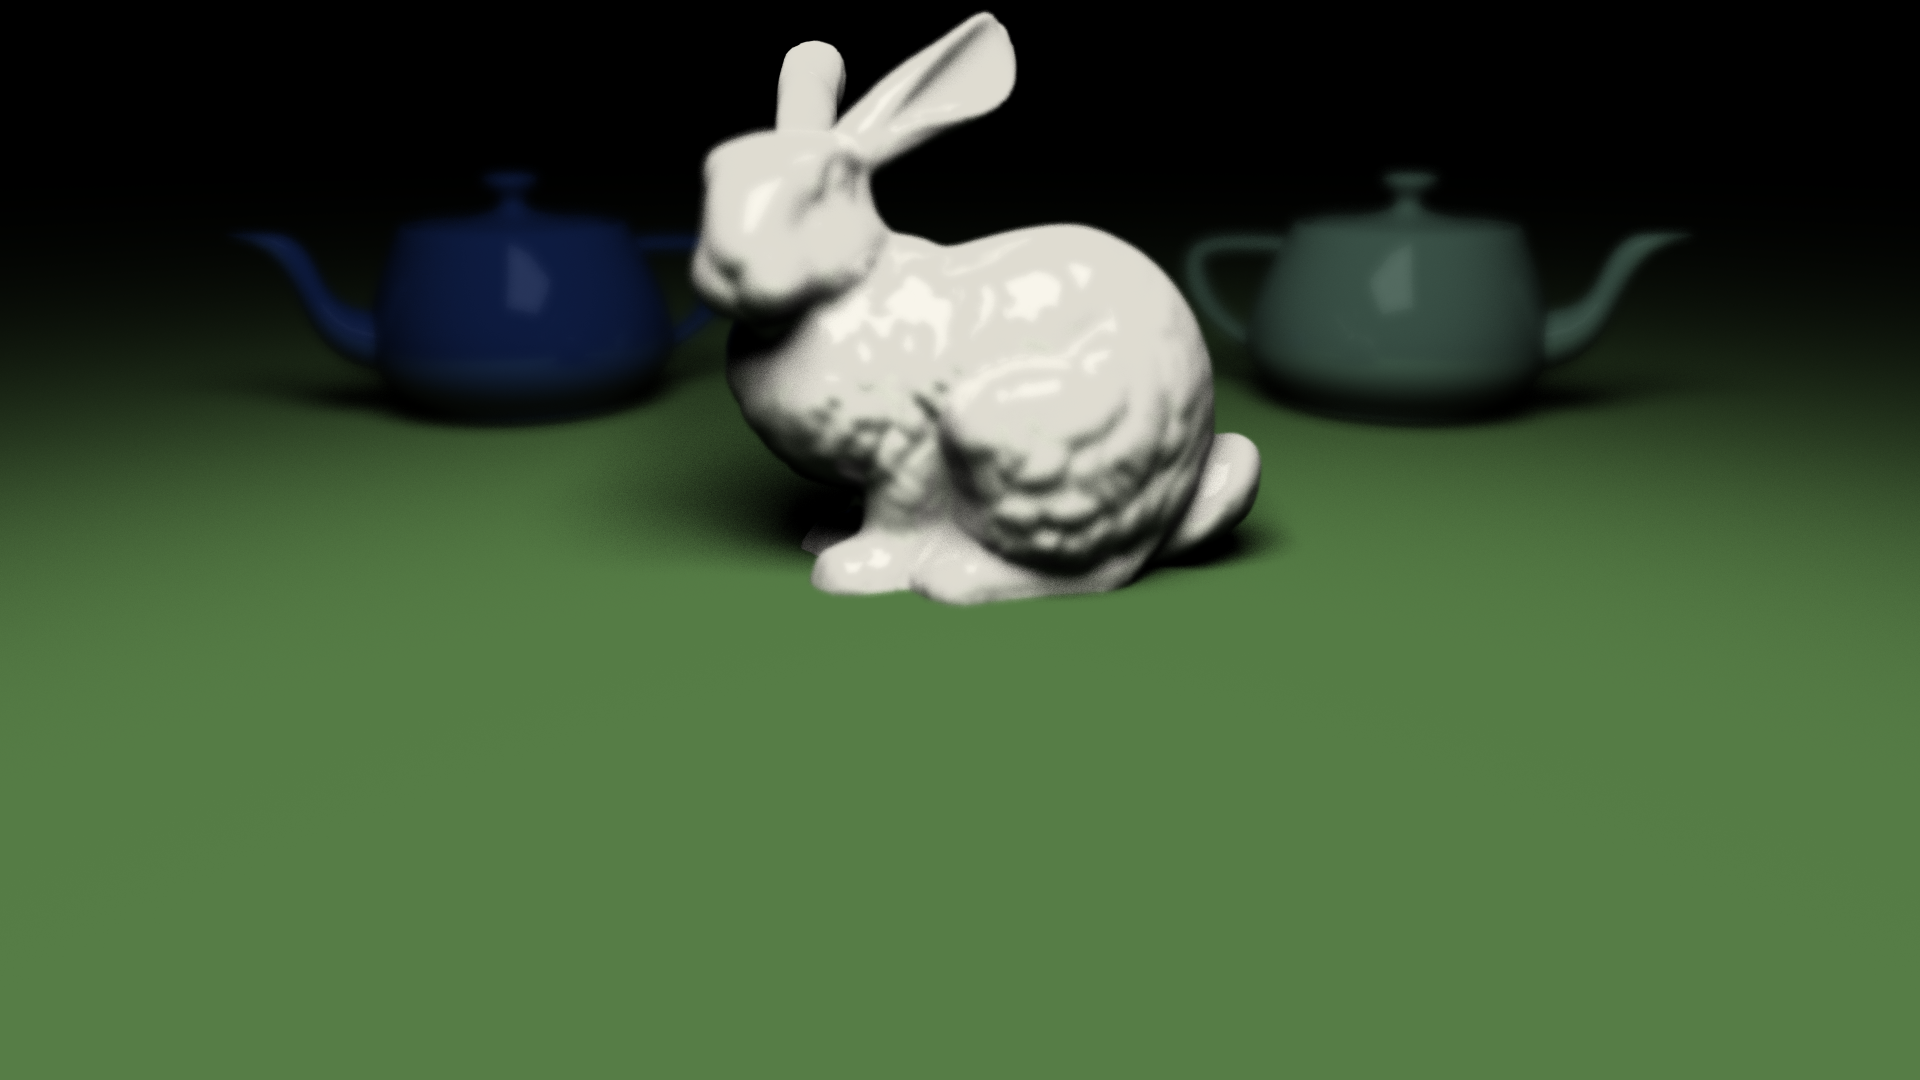
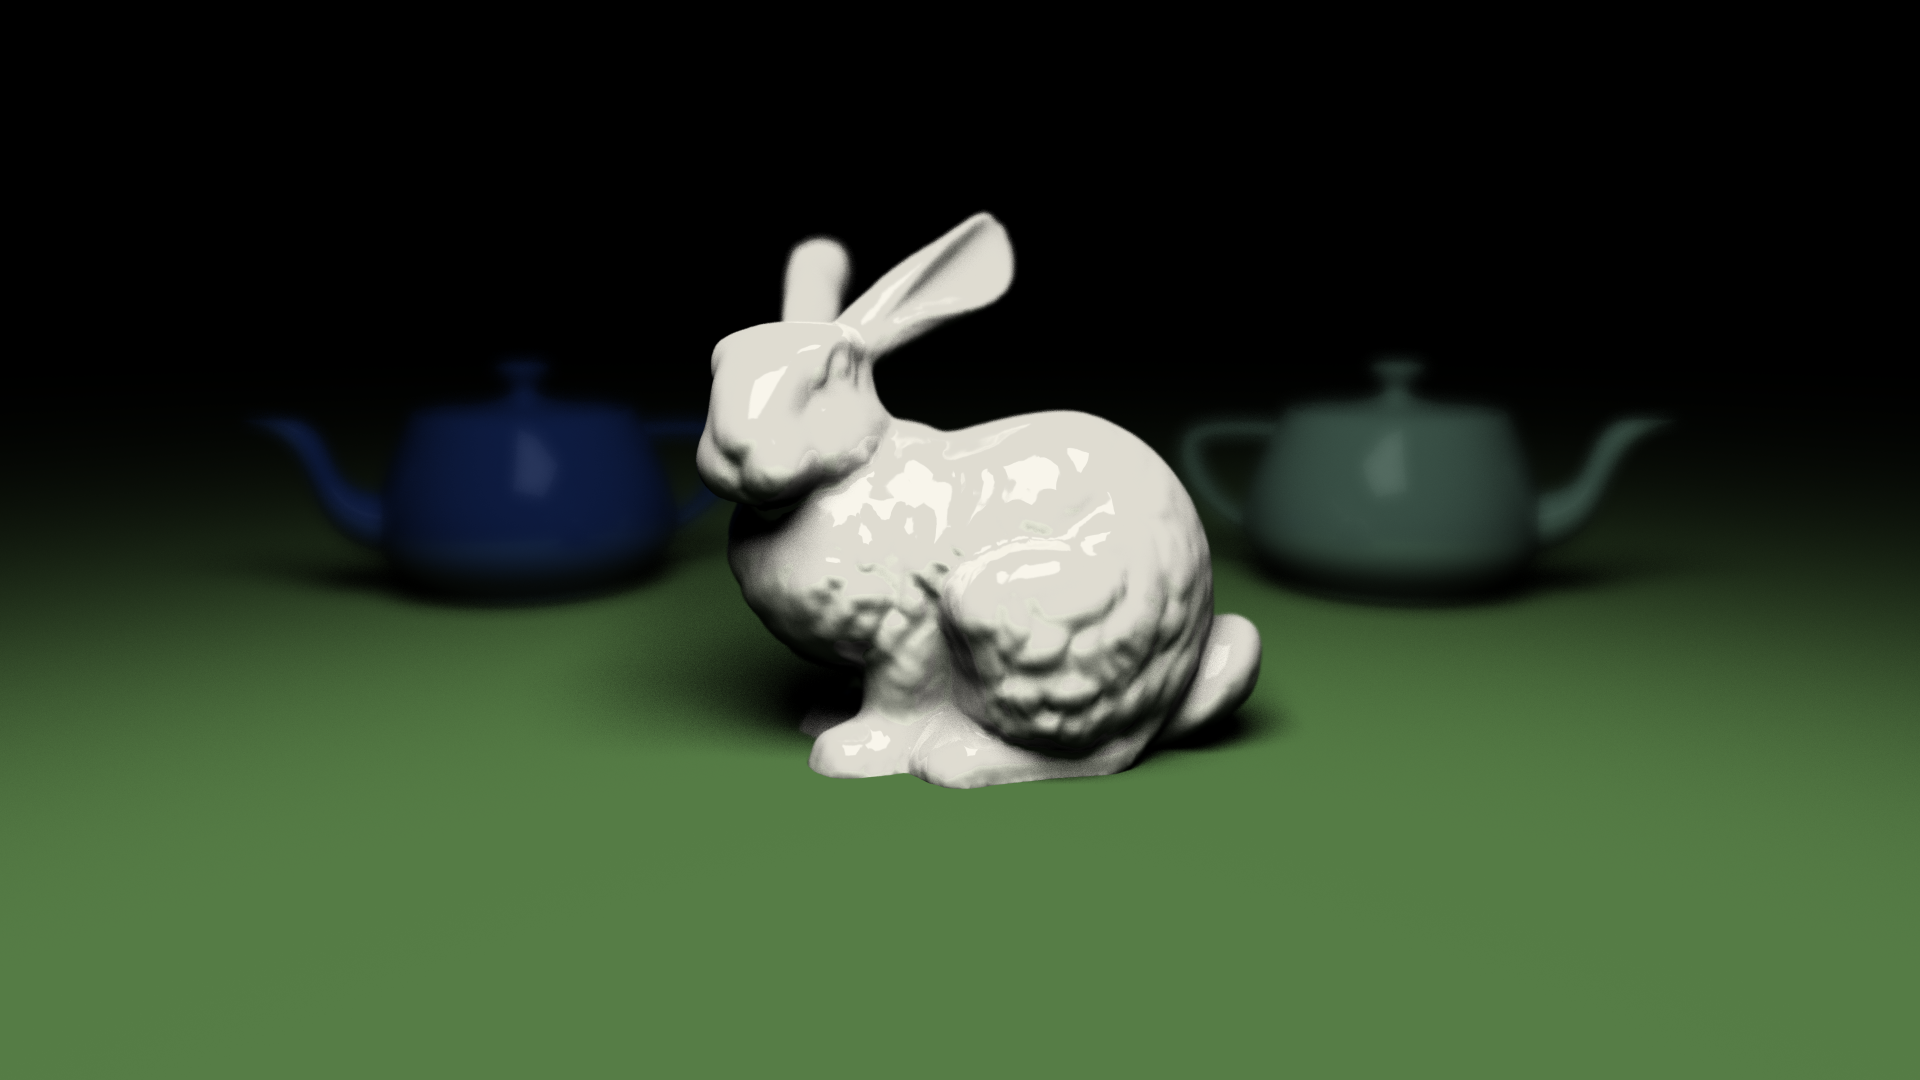
Generated new example image

diff --git a/RayTracer/src/Camera.h b/RayTracer/src/Camera.h
@@ -13,7 +13,7 @@ namespace RayTracer
 	friend class Scene;
 
 	public:
-		Camera(unsigned int width = 1920, unsigned int height = 1080, float fov = 90, glm::vec3 position = { 0,0,0 }, glm::vec3 lookAt = { 0.0f, 0.0f, -1.0f }, float lensRadius = 0.055f, glm::vec3 upVector = { 0,1,0 });
+		Camera(unsigned int width = 1920, unsigned int height = 1080, float fov = 90, glm::vec3 position = { 0,0,0 }, glm::vec3 lookAt = { 0.0f, 0.0f, -1.0f }, float lensRadius = 0.045f, glm::vec3 upVector = { 0,1,0 });
 
 	protected:
 		void Render(Scene* scene);

diff --git a/TestProgram/src/main.cpp b/TestProgram/src/main.cpp
@@ -19,7 +19,7 @@ using namespace RayTracer;
 int main(int argc, char* argv[])
 {
 	// Create the camera and create a scene with it
-	Camera camera = RayTracer::Camera(1920, 1080, 45.0f, { 0,0.5,-1.5 }, { 0,0,-3 });
+	Camera camera = RayTracer::Camera(1920, 1080, 45.0f, { 0,0.5,-1.5 }, { 0,0.25,-2.85 });
 	Scene scene(camera);
 	
 
